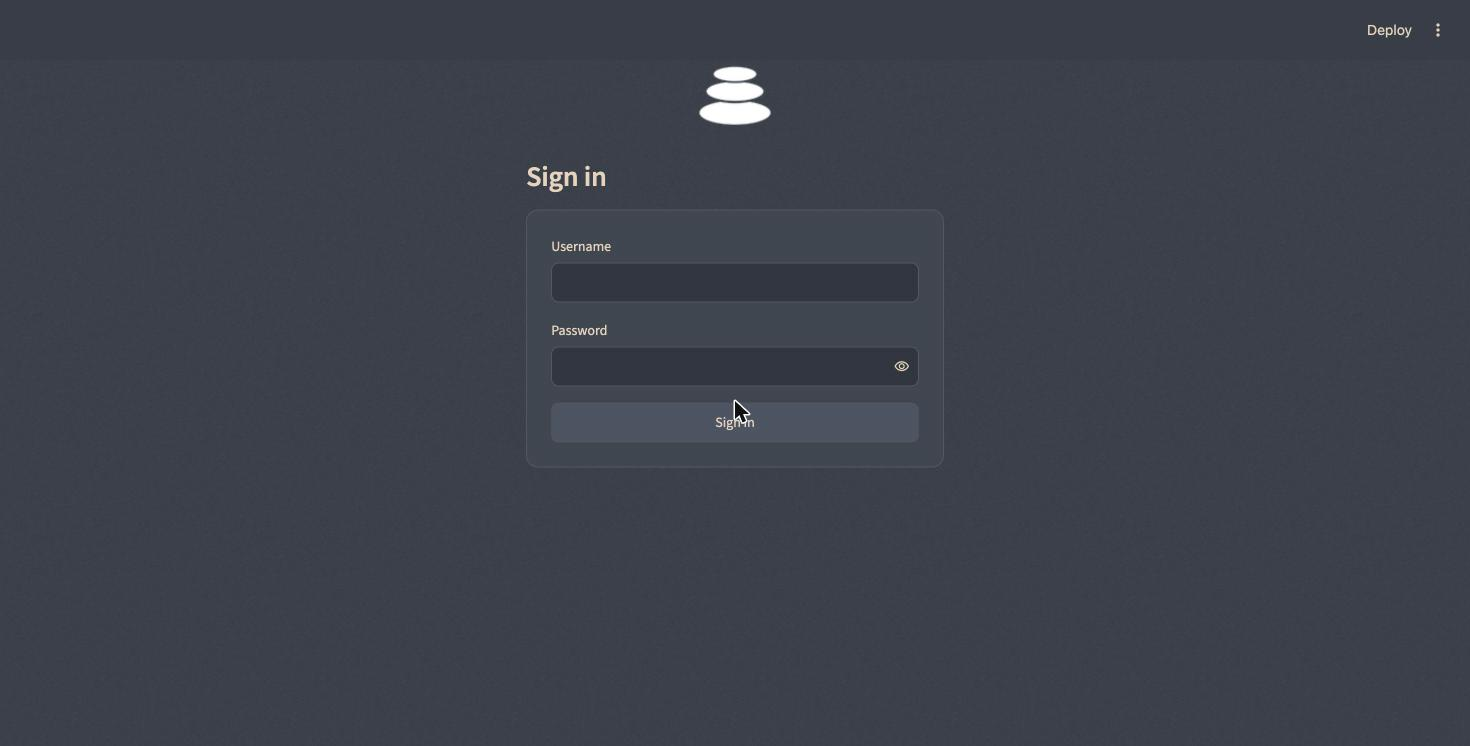
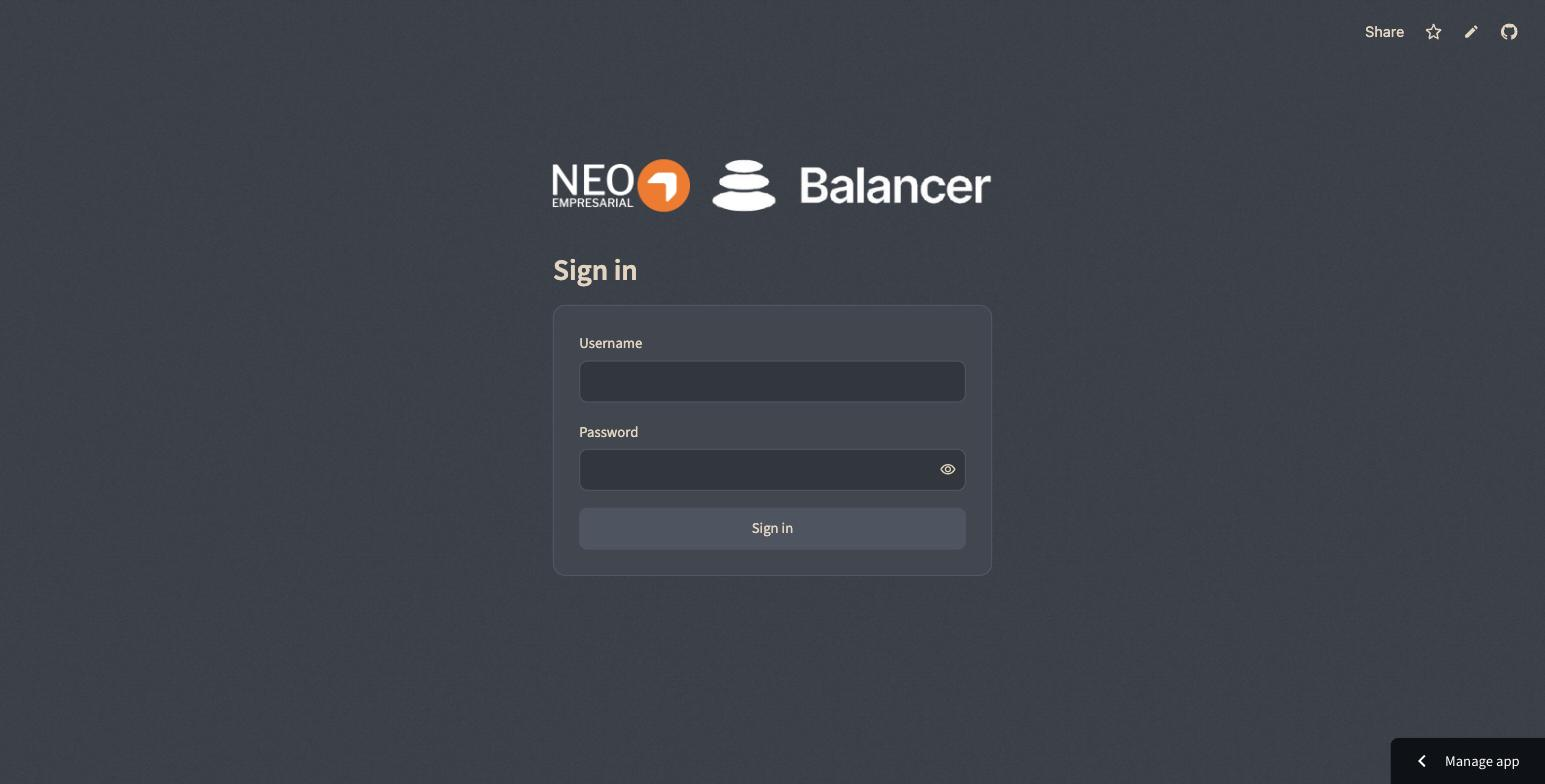
docs(README): refresh screenshots for the new navbar and Pool Settings UI
The screenshots predated the navbar/toolbar rework (NEO+Balancer logos,
Pool Settings title, hidden Streamlit chrome) and the pizza/strategy
comparison shots no longer matched real app output.

Recaptured all four against the deployed app (bl008-dtf-on-chain.streamlit.app,
real Glider API key) except the login screen, taken locally with a demo
login to avoid exposing real credentials in the image:
- login.jpg — sign-in screen, current navbar
- pizza.jpg — Glider Mag7 allocation donut, real TVL/wallet data
- performance.jpg — real vs. HODL vs. adjusted chart, real Glider data
- strategy-comparison.jpg — Reserve Protocol OPEN + LCAP overlay (was two
  Glider baskets before)

diff --git a/README.md b/README.md
@@ -19,11 +19,11 @@ rebalances (governance, provider API, or an autonomous ML signal) and how
 often. The app is read-only — it never writes to any platform, and it's
 gated behind a single shared login.
 
-![Simulated weight per asset for the Mag7 basket, as a donut chart](docs/assets/pizza.png)
+![Simulated weight per asset for the Glider Mag7 basket, as a donut chart](docs/assets/pizza.jpg)
 
-![Real vs. HODL vs. adjusted performance for a basket, indexed to 100](docs/assets/performance.png)
+![Real vs. HODL vs. adjusted performance for a basket, indexed to 100](docs/assets/performance.jpg)
 
-![Strategy comparison overlaying two Glider baskets on one indexed-value line chart](docs/assets/strategy-comparison.png)
+![Strategy comparison overlaying two Reserve Protocol baskets on one indexed-value line chart](docs/assets/strategy-comparison.jpg)
 
 ## Running it locally
 
